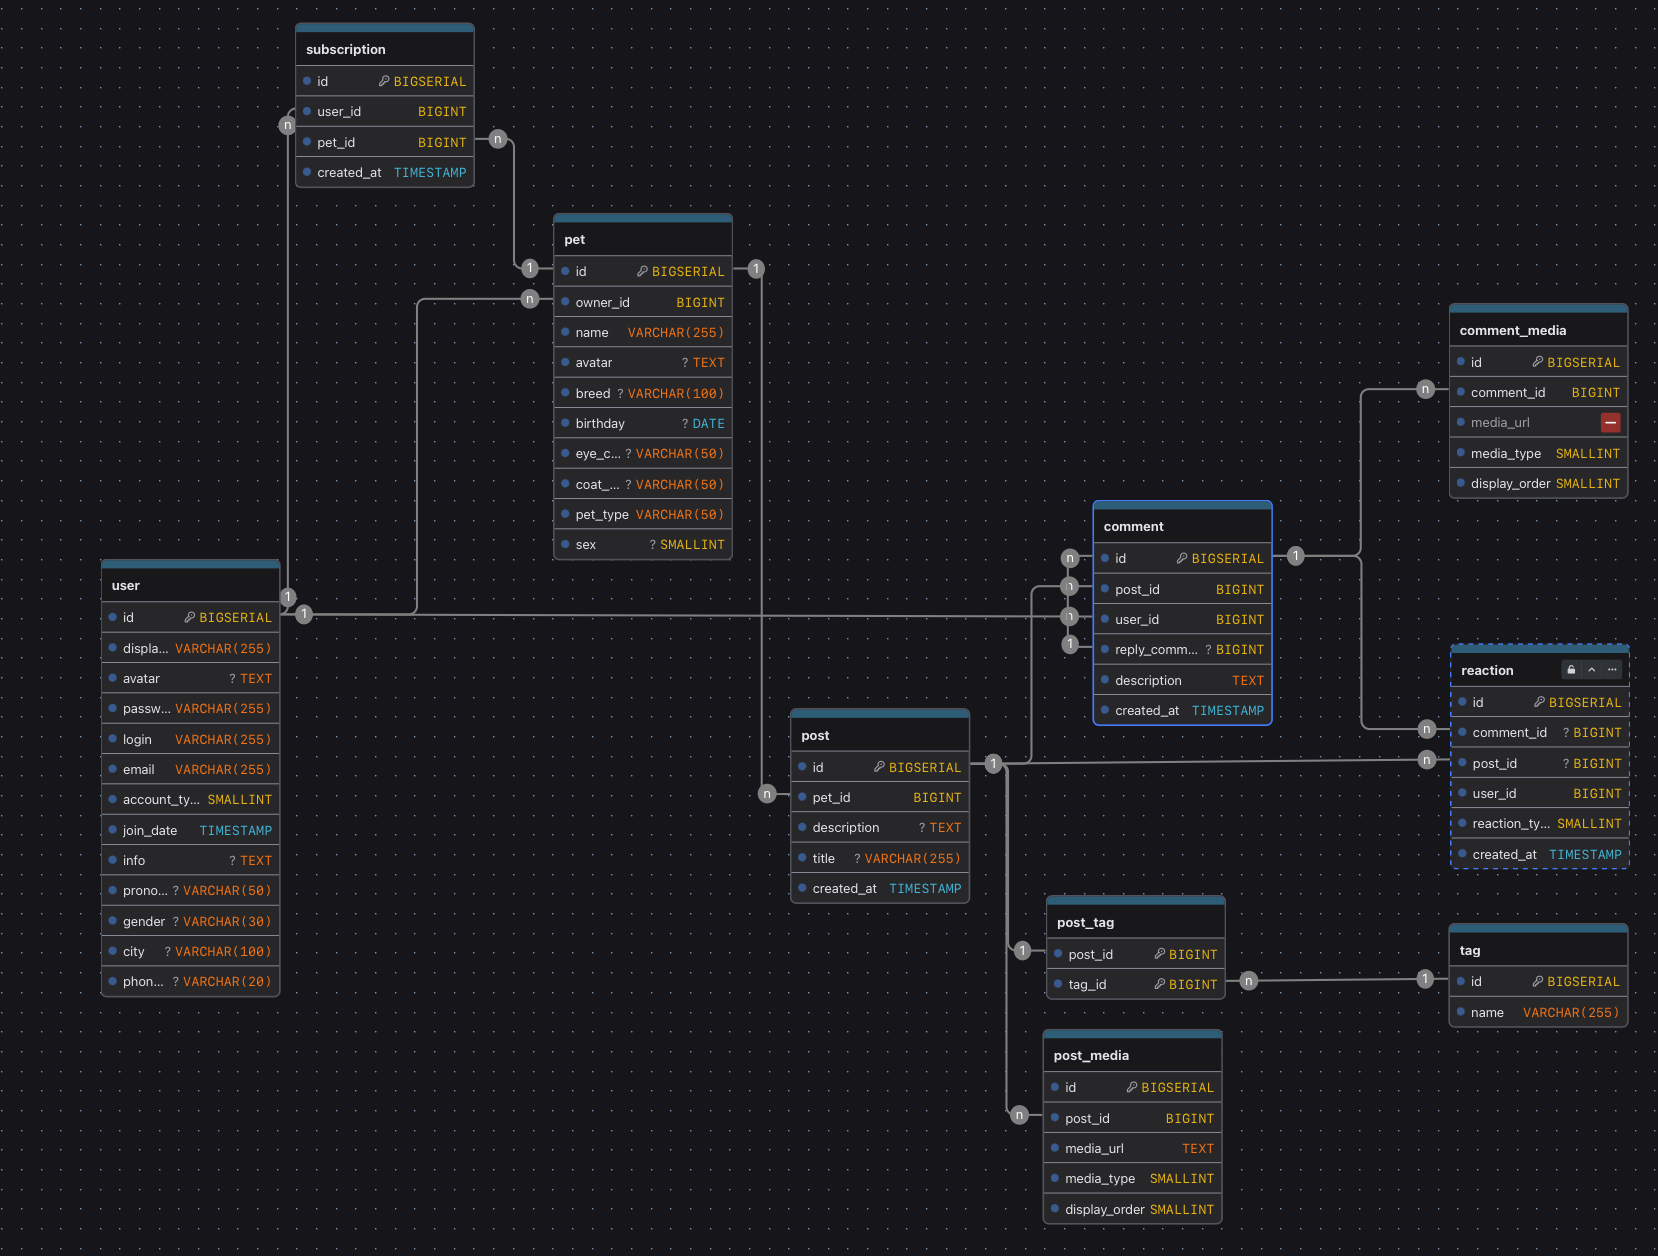
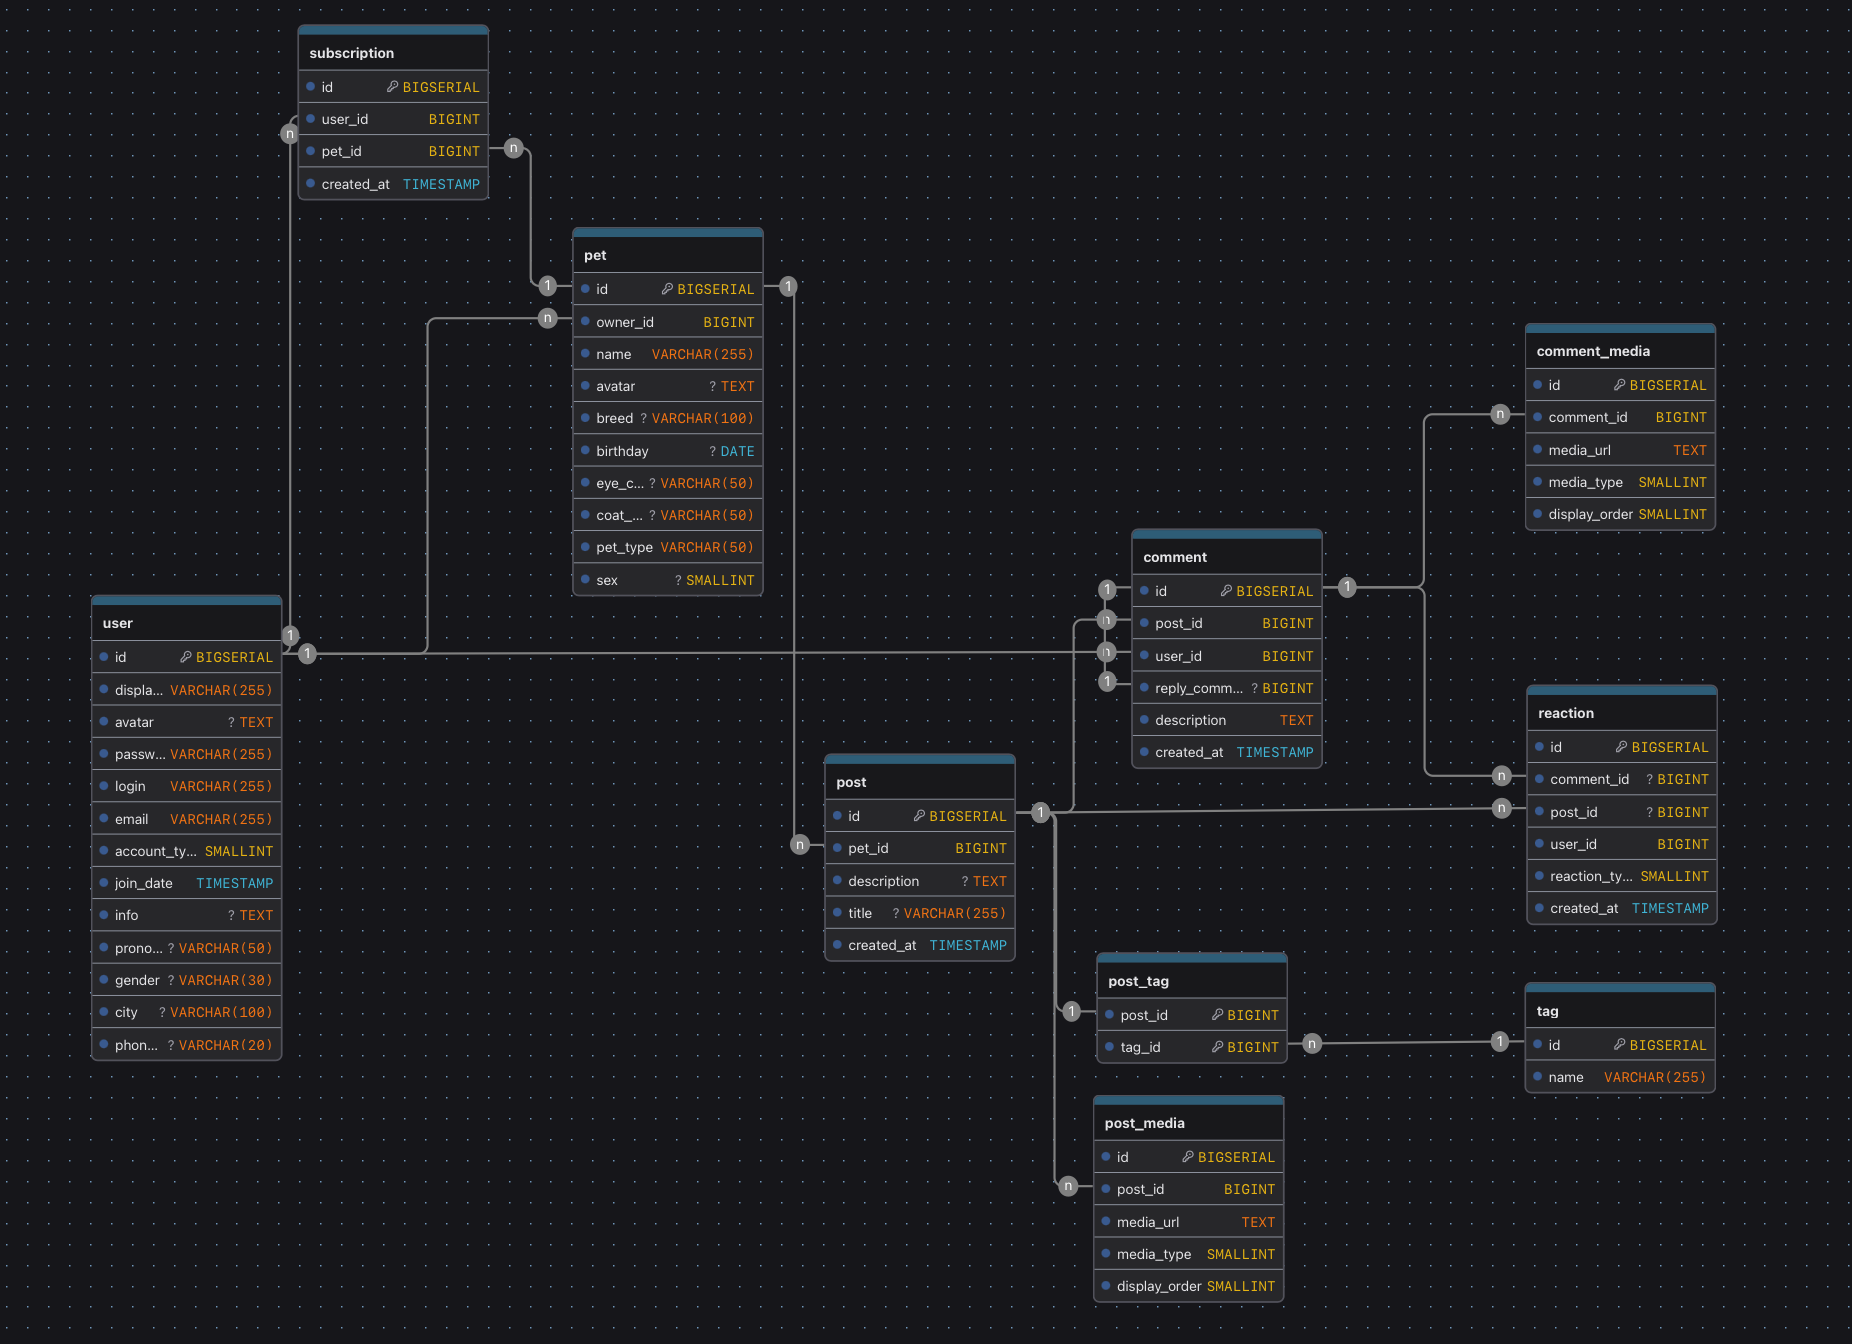
Изменения: правка связи в бд(commet - comment: один к одному)

Changed region(s): [[0.0308, 0.0, 0.9843, 0.9936], [0.7998, 0.2174, 0.9843, 0.4037], [0.7998, 0.7142, 0.9843, 0.8384]]

diff --git a/docs/ER_diagram.md b/docs/ER_diagram.md
@@ -1,18 +1,18 @@
 ## Отношения
 
-- **subscription to user**: многие ко многим
-- **pet to user**: многие ко многим
-- **post to pet**: многие ко многим
-- **comment to user**: многие ко многим
-- **comment_media to comment**: многие ко многим
-- **reaction to comment**: многие ко многим
-- **comment to post**: многие ко многим
-- **reaction to post**: многие ко многим
-- **post_tag to tag**: многие ко многим
-- **post_media to post**: многие ко многим
+- **subscription to user**: many_to_one
+- **pet to user**: many_to_one
+- **post to pet**: many_to_one
+- **comment to user**: many_to_one
+- **comment_media to comment**: many_to_one
+- **reaction to comment**: many_to_one
+- **comment to post**: many_to_one
+- **reaction to post**: many_to_one
+- **post_tag to tag**: many_to_one
+- **post_media to post**: many_to_one
 - **post_tag to post**: one_to_one
-- **subscription to pet**: многие ко многим
-- **comment to comment**: один ко многим
+- **subscription to pet**: many_to_one
+- **comment to comment**: one_to_one
 
 
 ## ER-Диаграма
@@ -31,7 +31,7 @@ erDiagram
 	post_media }o--|| post : references
 	post_tag ||--|| post : references
 	subscription }o--|| pet : references
-	comment ||--o{ comment : references
+	comment ||--|| comment : references
 
 	pet {
 		BIGSERIAL id

diff --git a/docs/MODELS.md b/docs/MODELS.md
@@ -162,19 +162,19 @@
 
 ## Отношения
 
-- **subscription to user**: многие ко многим
-- **pet to user**: многие ко многим
-- **post to pet**: многие ко многим
-- **comment to user**: многие ко многим
-- **comment_media to comment**: многие ко многим
-- **reaction to comment**: многие ко многим
-- **comment to post**: многие ко многим
-- **reaction to post**: многие ко многим
-- **post_tag to tag**: многие ко многим
-- **post_media to post**: многие ко многим
+- **subscription to user**: many_to_one
+- **pet to user**: many_to_one
+- **post to pet**: many_to_one
+- **comment to user**: many_to_one
+- **comment_media to comment**: many_to_one
+- **reaction to comment**: many_to_one
+- **comment to post**: many_to_one
+- **reaction to post**: many_to_one
+- **post_tag to tag**: many_to_one
+- **post_media to post**: many_to_one
 - **post_tag to post**: one_to_one
-- **subscription to pet**: многие ко многим
-- **comment to comment**: один ко многим
+- **subscription to pet**: many_to_one
+- **comment to comment**: one_to_one
 
 ## Скриншот_схемы
 ![alt text](mops-bd.png)
